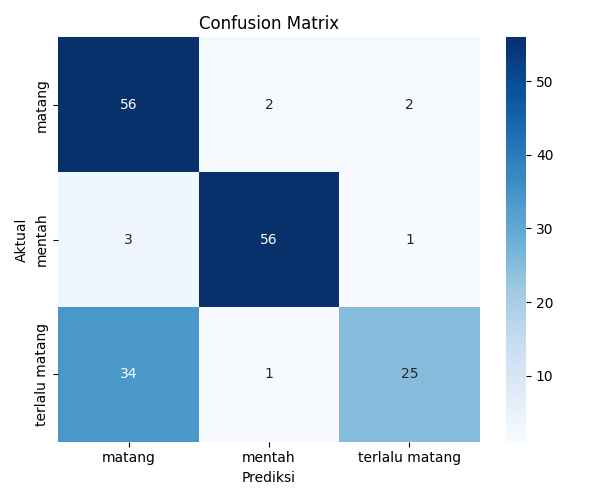
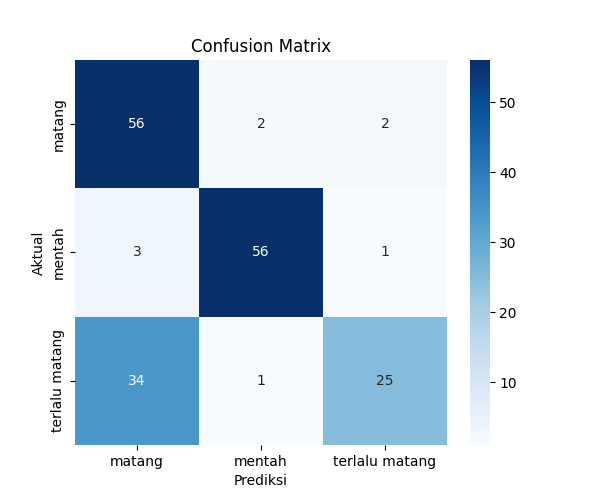
feat: enhance feature extraction and update model evaluation

diff --git a/app.py b/app.py
@@ -1,15 +1,23 @@
+# pyrefly: ignore [missing-import]
 import streamlit as st
+# pyrefly: ignore [missing-import]
 import cv2
 import pickle
 import time
 import os
 import sys
+# pyrefly: ignore [missing-import]
 import numpy as np
+# pyrefly: ignore [missing-import]
 from PIL import Image
 
 # Tambahkan src ke path
 sys.path.append(os.path.join(os.path.dirname(__file__), 'src'))
+#
+# pyrefly: ignore [missing-import]
 from image_utils import load_and_preprocess_image
+
+# pyrefly: ignore [missing-import]
 from feature_extraction import extract_features
 
 st.set_page_config(page_title="Deteksi Kematangan Buah HSI", layout="centered")

diff --git a/train_model.py b/train_model.py
@@ -1,11 +1,16 @@
 import pandas as pd
+# pyrefly: ignore [missing-import]
 import numpy as np
 import os
 import pickle
 import time
+# pyrefly: ignore [missing-import]
 from sklearn.ensemble import RandomForestClassifier
+# pyrefly: ignore [missing-import]
 from sklearn.metrics import accuracy_score, classification_report, confusion_matrix
+# pyrefly: ignore [missing-import]
 import matplotlib.pyplot as plt
+# pyrefly: ignore [missing-import]
 import seaborn as sns
 
 def main():

diff --git a/predict.py b/predict.py
@@ -1,4 +1,5 @@
 import argparse
+# pyrefly: ignore [missing-import]
 import cv2
 import pickle
 import time
@@ -7,7 +8,11 @@ import sys
 
 # Tambahkan src ke path
 sys.path.append(os.path.join(os.path.dirname(__file__), 'src'))
+
+# pyrefly: ignore [missing-import]
 from image_utils import load_and_preprocess_image
+
+# pyrefly: ignore [missing-import]
 from feature_extraction import extract_features
 
 def main():

diff --git a/src/image_utils.py b/src/image_utils.py
@@ -1,4 +1,6 @@
+# pyrefly: ignore [missing-import]
 import cv2
+# pyrefly: ignore [missing-import]
 import numpy as np
 
 def load_and_preprocess_image(filepath, target_size=(128, 128)):

diff --git a/src/feature_extraction.py b/src/feature_extraction.py
@@ -1,4 +1,6 @@
+# pyrefly: ignore [missing-import]
 import cv2
+# pyrefly: ignore [missing-import]
 import numpy as np
 
 def rgb_to_hsi(image):

diff --git a/README.md b/README.md
@@ -1,3 +1,83 @@
-# Fruit Ripeness HSI
+# 🍎 Deteksi Kematangan Buah Menggunakan HSI
 
-Proyek klasifikasi kematangan buah menggunakan ruang warna HSI dan algoritma Machine Learning.
+## 📋 Deskripsi Proyek
+Proyek ini bertujuan untuk mendeteksi tingkat kematangan buah secara otomatis menggunakan ekstraksi fitur warna berbasis ruang warna **HSI (Hue, Saturation, Intensity)** dan algoritma *Machine Learning* (Random Forest). Sistem ini dapat menganalisis gambar berbagai jenis buah (seperti Apel, Pisang, Jeruk, Mangga, Tomat) dan mengklasifikasikannya ke dalam tiga kategori: Mentah, Matang, atau Terlalu Matang/Busuk.
+
+## 🎯 Problem Statement
+Dalam industri pertanian dan distribusi pangan, pengecekan tingkat kematangan buah secara manual memakan waktu, rentan terhadap subjektivitas manusia, dan kurang efisien untuk skala besar. Sistem ini memberikan solusi *Computer Vision* yang konsisten, cepat, dan stabil terhadap variasi pencahayaan dibandingkan metode evaluasi visual biasa.
+
+## ✨ Fitur Utama
+- **Ekstraksi Fitur HSI**: Mengubah gambar RGB menjadi ruang warna HSI yang lebih menyerupai persepsi visual manusia.
+- **Prediksi Kematangan Cepat**: Menggunakan model Random Forest yang akurat untuk prediksi langsung.
+- **Dashboard Web Interaktif**: Menggunakan Streamlit sehingga pengguna dapat mengunggah gambar dan langsung melihat hasilnya secara visual.
+- **Command Line Interface (CLI)**: Mendukung prediksi gambar langsung melalui terminal.
+
+## 🏗 Arsitektur Sistem
+1. **Input**: Gambar RGB buah yang diunggah pengguna.
+2. **Preprocessing**: Gambar di-*resize* dan di- *blur* menggunakan Gaussian Filter untuk mengurangi *noise*.
+3. **Ekstraksi Fitur**: Konversi ke ruang warna HSI dan ekstraksi nilai statistik (Mean & Std Deviasi dari H, S, I).
+4. **Machine Learning Model**: Fitur dimasukkan ke dalam model klasifikasi Random Forest yang sudah dilatih.
+5. **Output**: Sistem menampilkan label kematangan (Mentah / Matang / Terlalu Matang) beserta informasi waktu inferensi.
+
+## 🛠 Tech Stack
+- **Bahasa Pemrograman**: Python 3
+- **Computer Vision**: OpenCV (`cv2`)
+- **Machine Learning**: Scikit-Learn
+- **Data Manipulation**: Pandas, NumPy
+- **Visualisasi**: Matplotlib, Seaborn
+- **Web Dashboard**: Streamlit
+
+## 📸 Screenshot Aplikasi
+*(Anda dapat menambahkan screenshot dashboard Streamlit di sini)*
+![Dashboard Prediksi Buah](reports/confusion_matrix.png) *(Ini adalah gambar Confusion Matrix sebagai placeholder. Ganti dengan screenshot web jika sudah ada)*
+
+## 📁 Struktur Proyek
+```text
+Fruit-Ripeness-HSI/
+├── data/
+│   ├── raw/                 # Dataset asli (gambar buah)
+│   └── processed/           # Fitur HSI dalam bentuk file CSV
+├── models/
+│   └── random_forest.pkl    # Model Machine Learning hasil pelatihan
+├── notebooks/
+│   ├── 01_EDA.ipynb         # Eksplorasi Data
+│   └── 02_Preprocessing_and_Extraction.ipynb # Script ekstraksi fitur
+├── reports/
+│   ├── confusion_matrix.png # Grafik evaluasi model
+│   └── feature_importance.png
+├── src/
+│   ├── image_utils.py       # Helper preprocessing gambar
+│   └── feature_extraction.py# Helper konversi RGB ke HSI
+├── app.py                   # Dashboard Web Streamlit
+├── predict.py               # Script CLI Prediksi
+├── train_model.py           # Script Pelatihan Model
+└── requirements.txt         # Daftar dependencies/library
+```
+
+## 🚀 Instalasi
+Ikuti langkah-langkah berikut untuk menjalankan proyek ini di mesin lokal Anda:
+
+1. Pastikan Anda memiliki Python 3 terinstal.
+2. Buat Virtual Environment dan aktifkan:
+   ```bash
+   python -m venv venv
+   .\venv\Scripts\activate
+   ```
+3. Install seluruh library yang dibutuhkan:
+   ```bash
+   pip install -r requirements.txt
+   ```
+4. Jalankan aplikasi web (Streamlit):
+   ```bash
+   streamlit run app.py
+   ```
+
+
+## 🧪 Testing
+- Pengujian model (*Model Evaluation*) dapat dilihat melalui metrik akurasi, *Precision*, *Recall*, dan grafik *Confusion Matrix* yang tersimpan di dalam direktori `reports/`.
+
+## 👥 Tim Pengembang
+- **Haidar** - *Machine Learning & Computer Vision*
+
+## 📄 License
+- MIT License - Silakan gunakan dan modifikasi proyek ini untuk keperluan riset dan edukasi.
